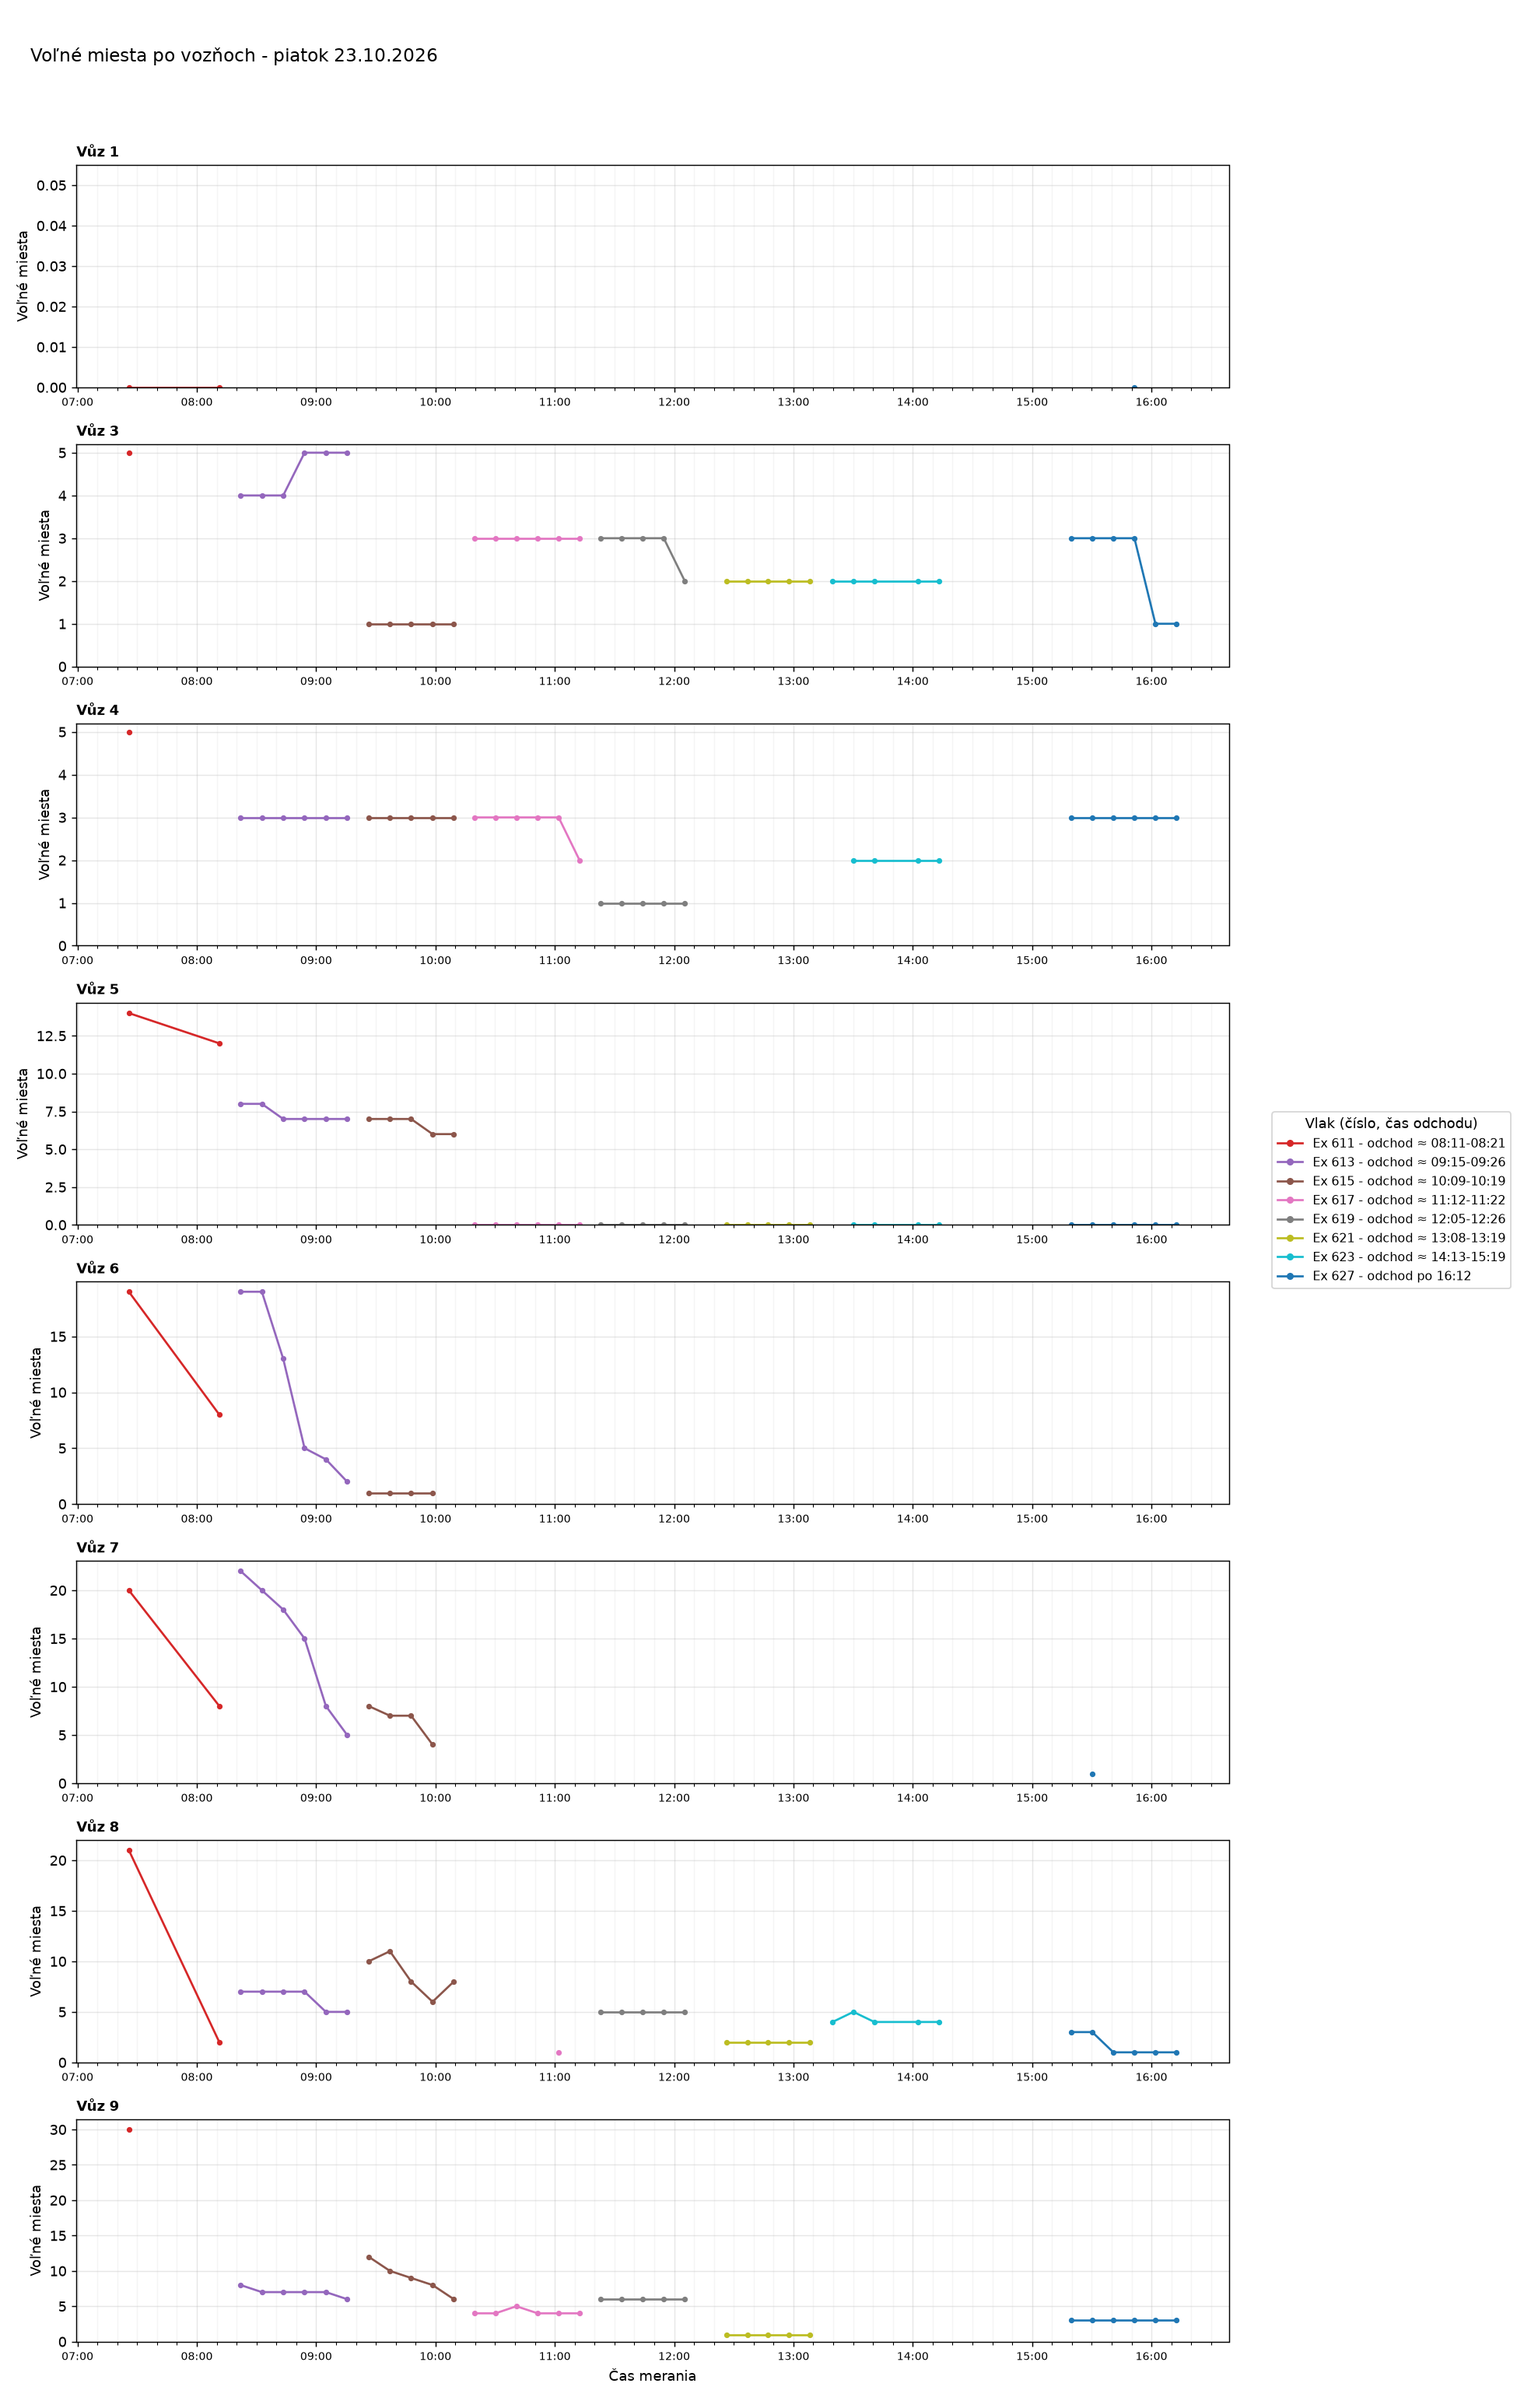
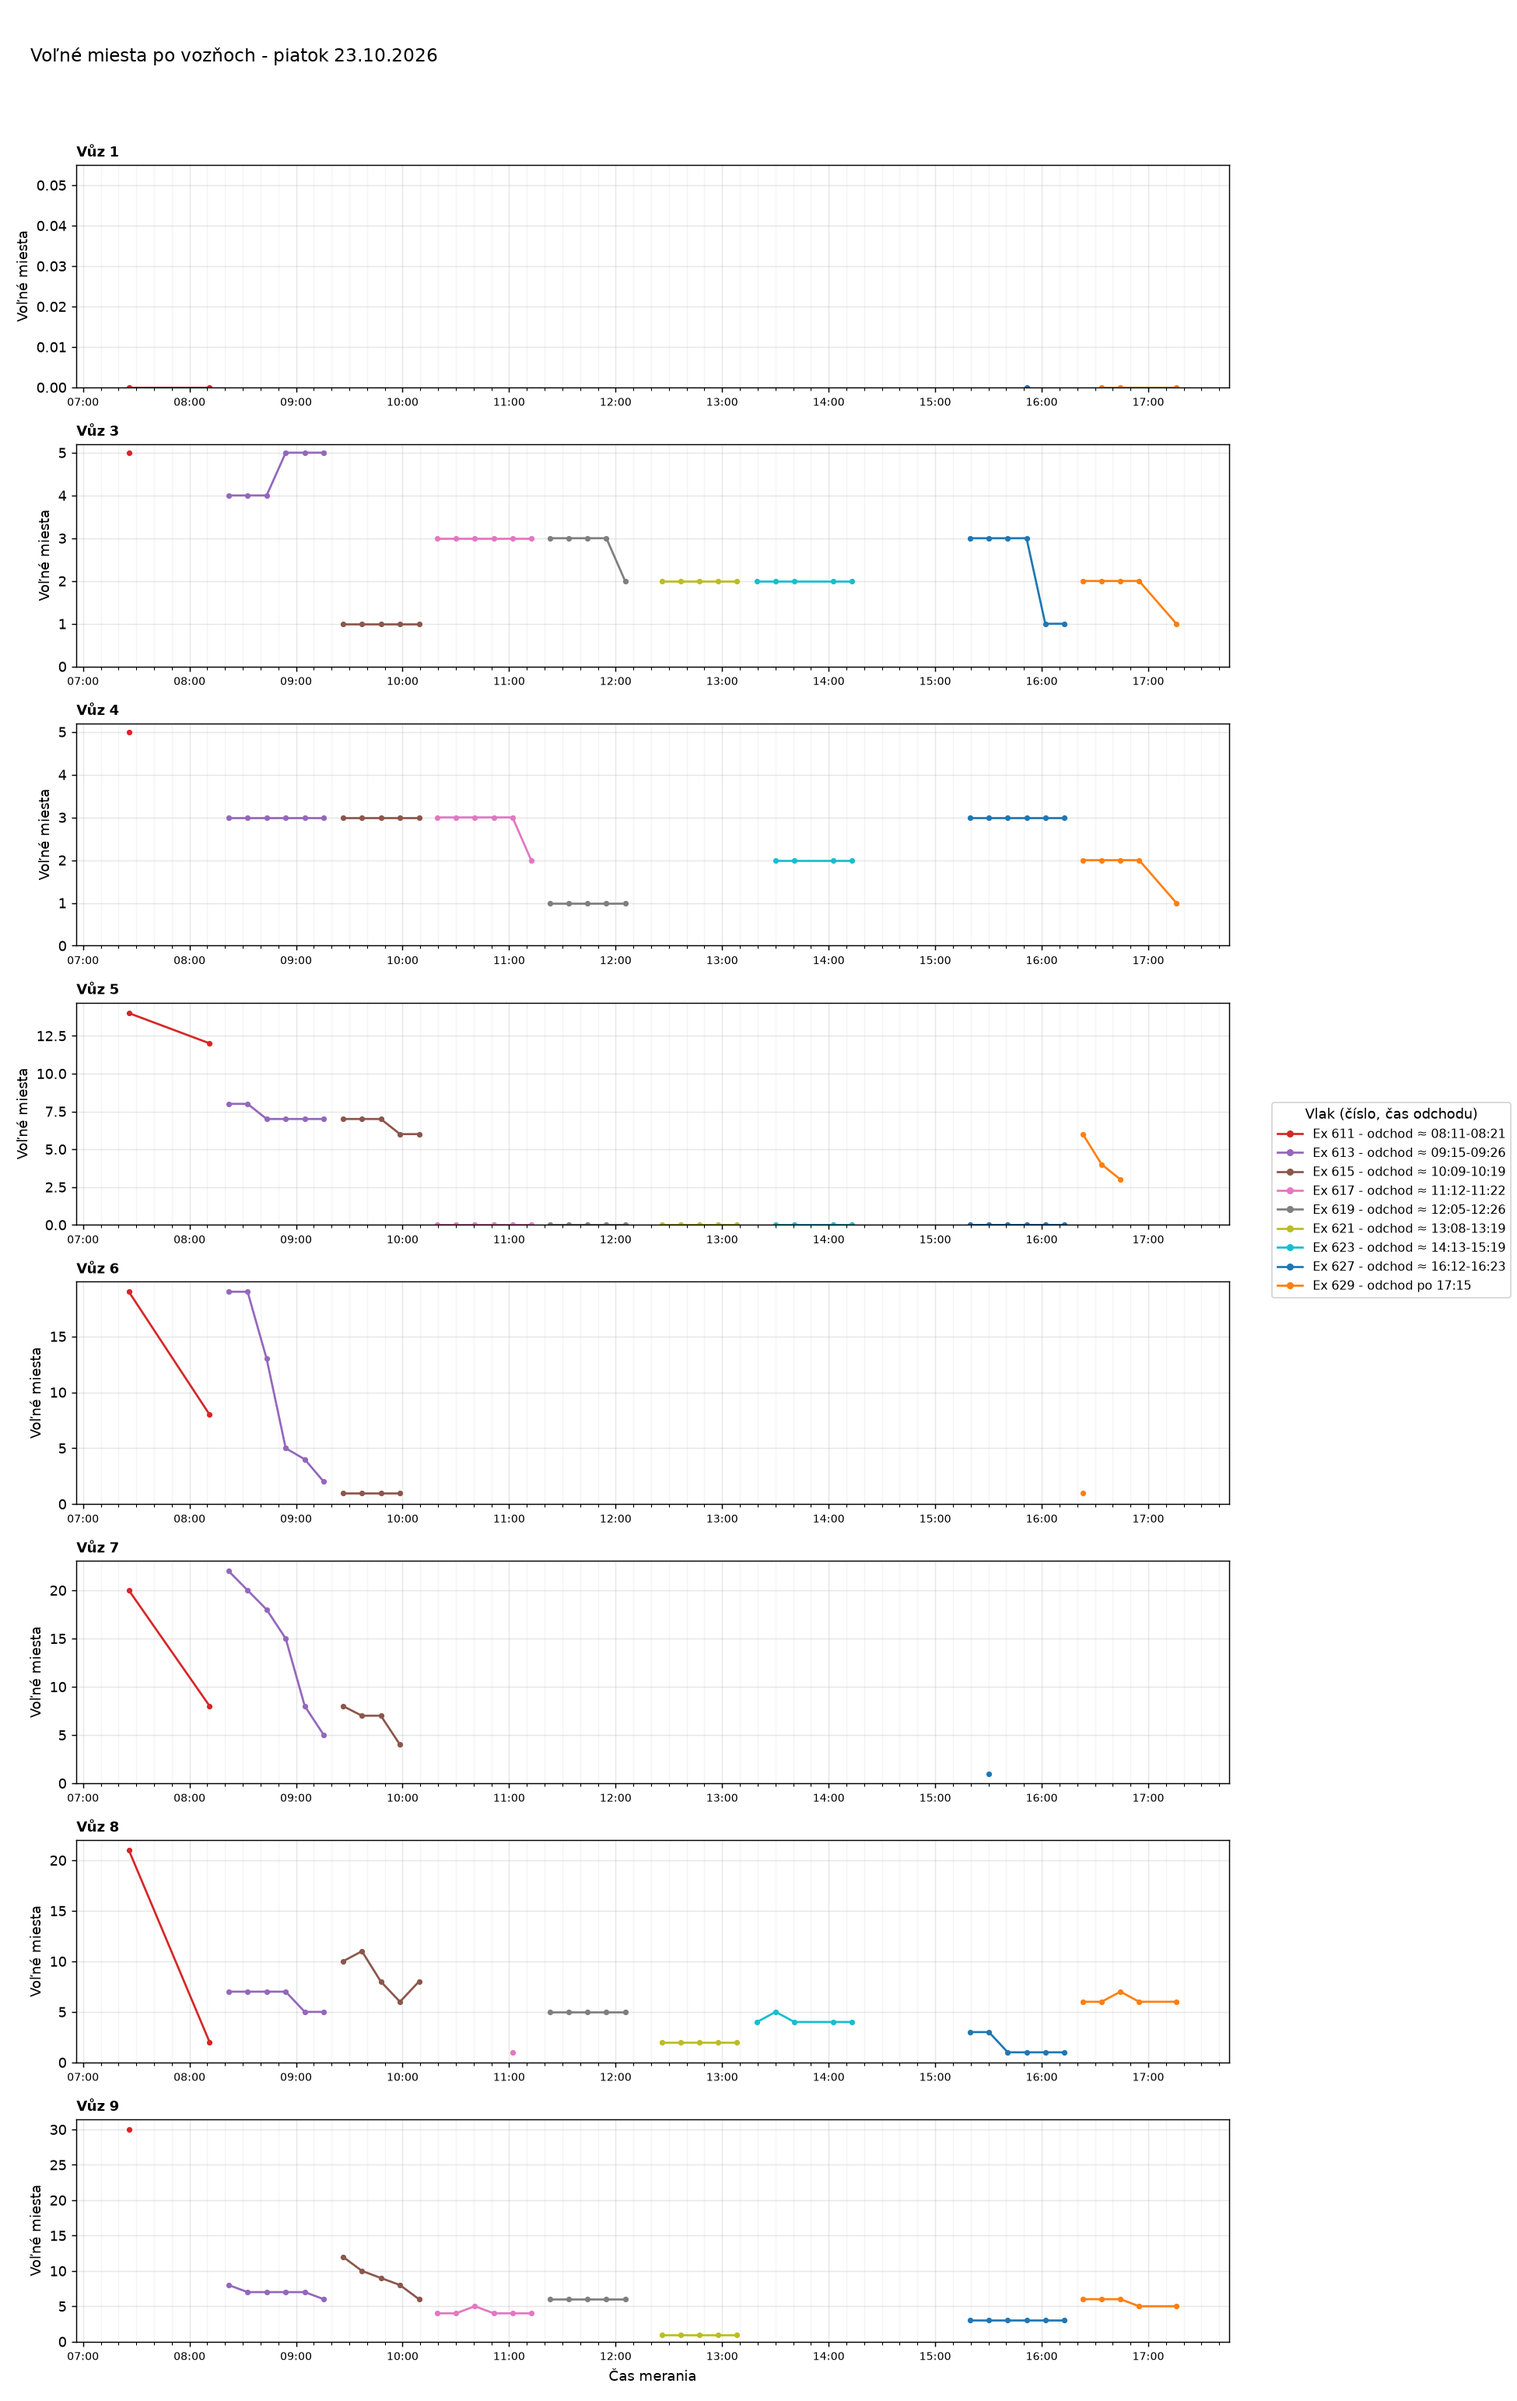
Aktualizácia grafov 2026-10-23 17:21

diff --git a/index.html b/index.html
@@ -35,7 +35,7 @@ h2.oddiel{margin:36px 0 0;font-size:1.4rem}
 <body>
 <main>
 <h1>Voľné miesta vo vlakoch</h1>
-<p class="muted">Posledné meranie: 23.10.2026 16:12 ·
+<p class="muted">Posledné meranie: 23.10.2026 17:15 ·
 <a href="data/obsadenost_data.csv">stiahnuť dáta (CSV)</a></p>
 <nav class="nav"><a href="#suhrn">Súhrn</a><a href="#statistiky">Štatistiky</a><a href="#historia">História grafov</a></nav>
 
@@ -44,7 +44,7 @@ h2.oddiel{margin:36px 0 0;font-size:1.4rem}
 <div class="tablewrap"><table>
 <thead><tr><th>Deň</th><th>Meraní</th><th>Vlakov</th><th>Čas meraní</th></tr></thead>
 <tbody>
-<tr><td><a href="#d2026-10-23">piatok 23.10.2026</a></td><td>40</td><td>8</td><td>07:25-16:12</td></tr>
+<tr><td><a href="#d2026-10-23">piatok 23.10.2026</a></td><td>45</td><td>9</td><td>07:25-17:15</td></tr>
 <tr><td><a href="#d2026-10-22">štvrtok 22.10.2026</a></td><td>80</td><td>11</td><td>00:08-16:10</td></tr>
 <tr><td><a href="#d2026-10-21">streda 21.10.2026</a></td><td>96</td><td>15</td><td>00:10-23:58</td></tr>
 <tr><td><a href="#d2026-10-20">utorok 20.10.2026</a></td><td>34</td><td>7</td><td>13:55-23:50</td></tr>
